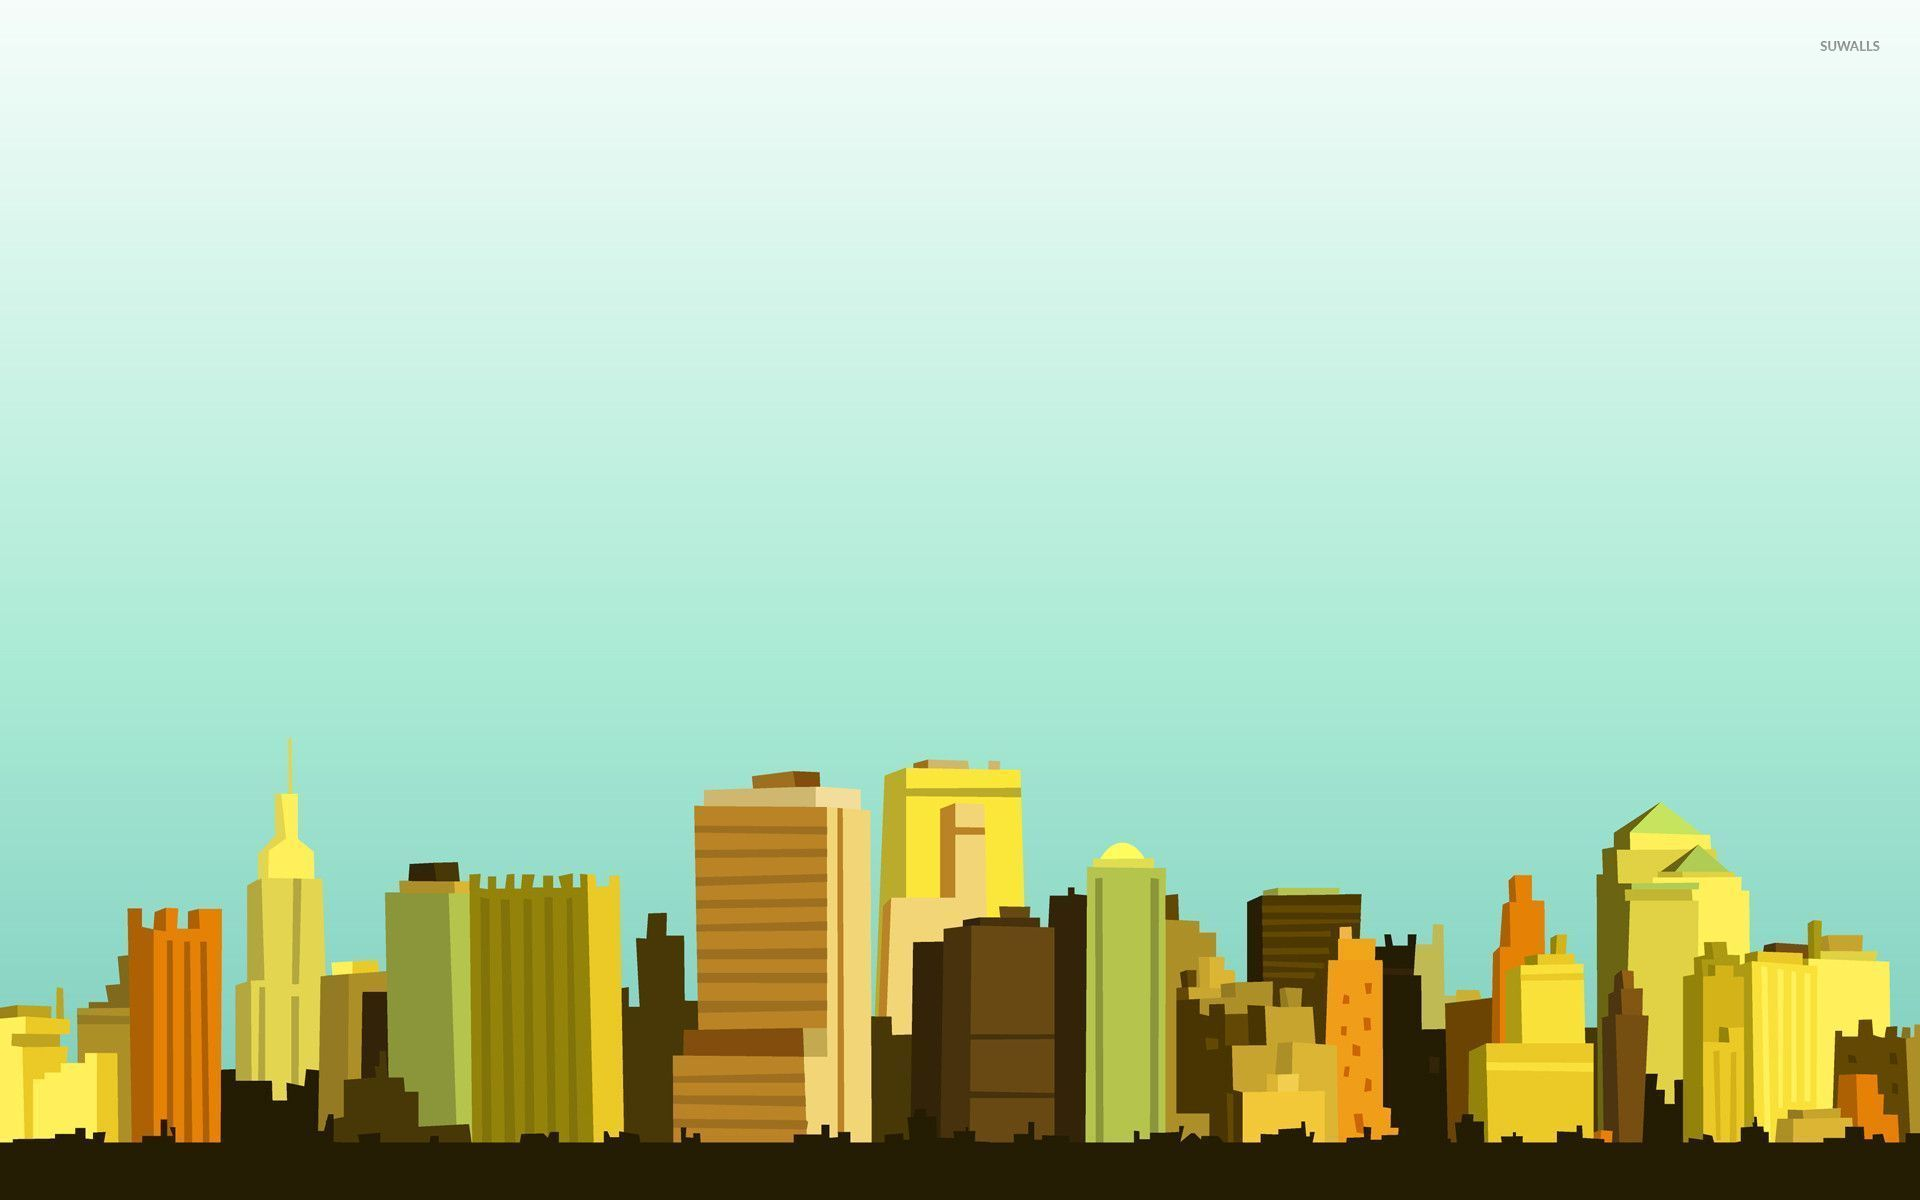
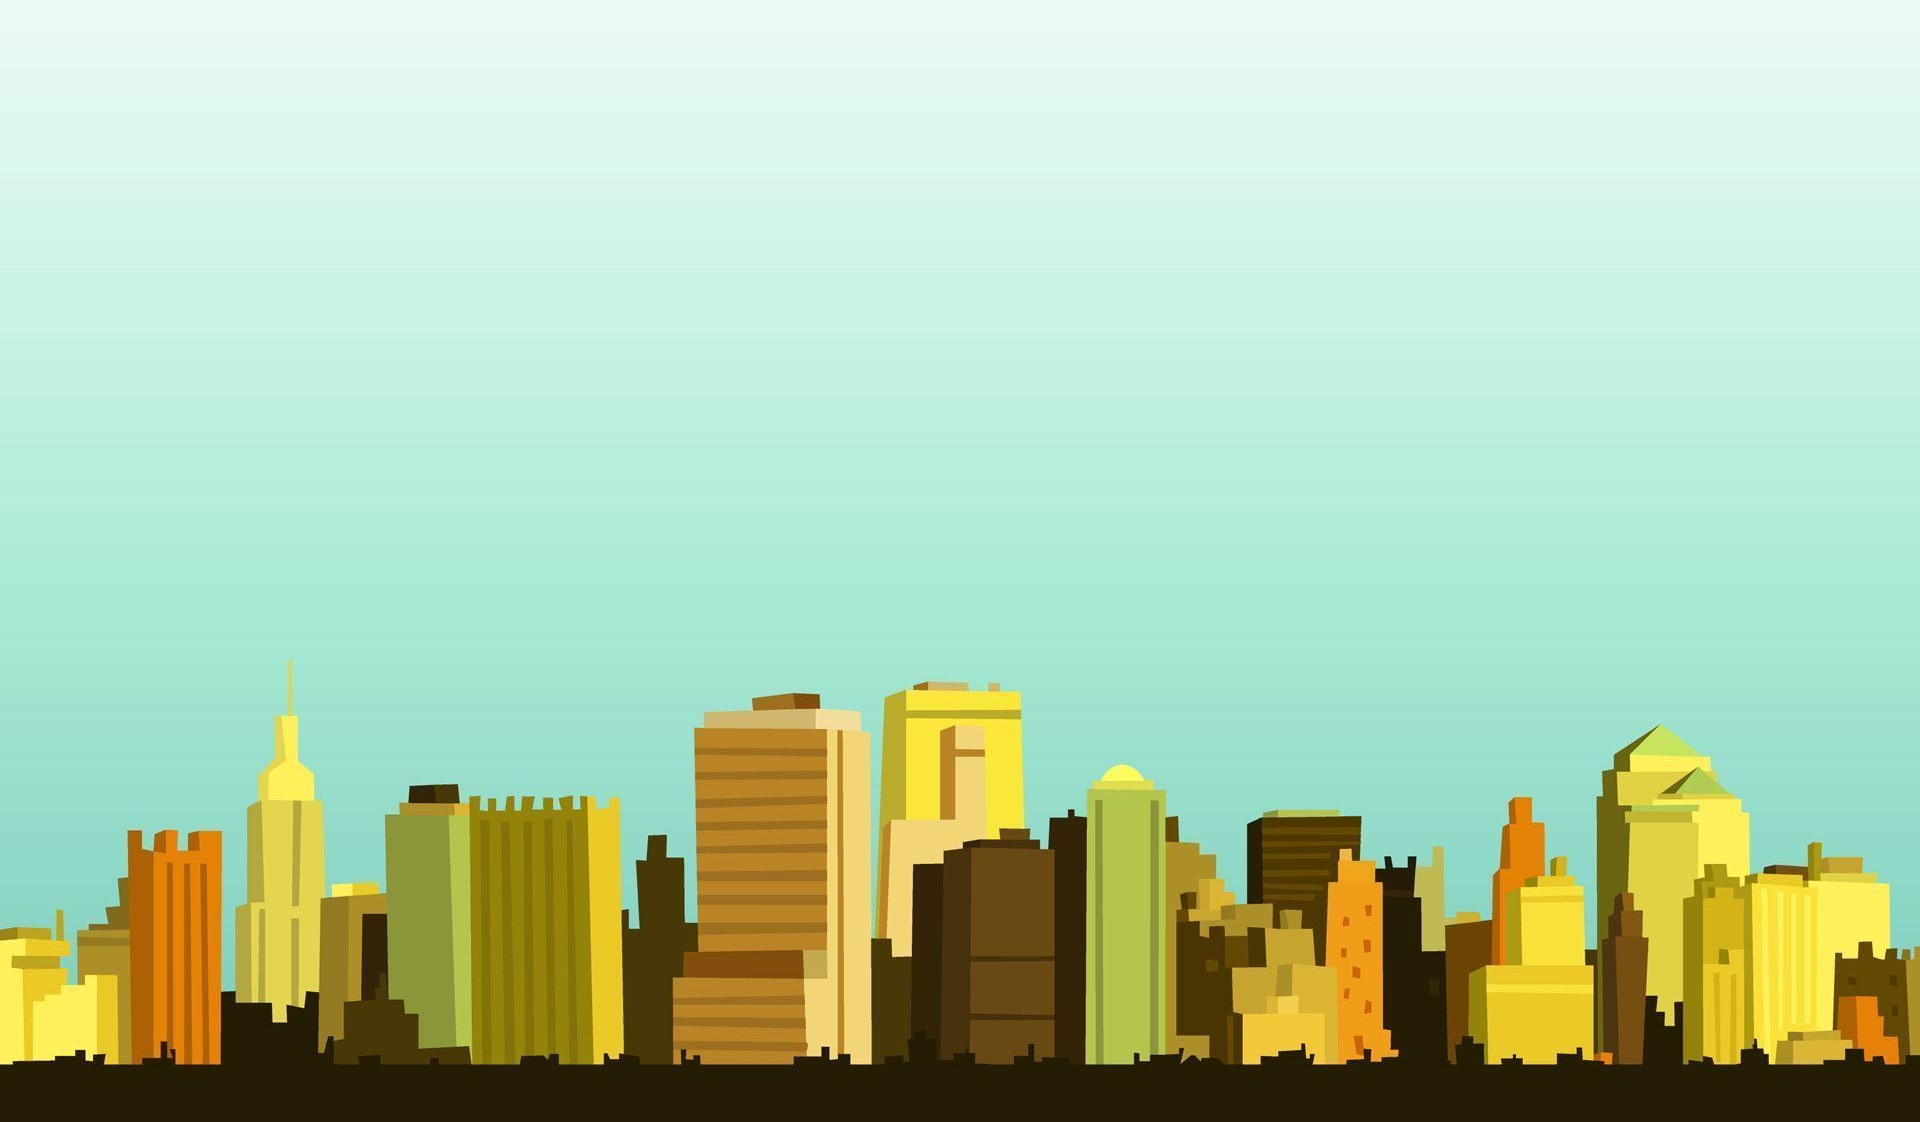
Updated yet again because it didnt load for some reason

diff --git a/index.html b/index.html
@@ -18,7 +18,7 @@
         {
             margin: 0px;
             padding: 20px;
-            height: 200vh;
+            height: 200px;
             background-image: url("https://raw.githubusercontent.com/BrokeBlake/FIT3179-Data-Visualisation-A2/main/data/city_sketch_background.jpg");
             background-size: cover;
             background-position: center;
